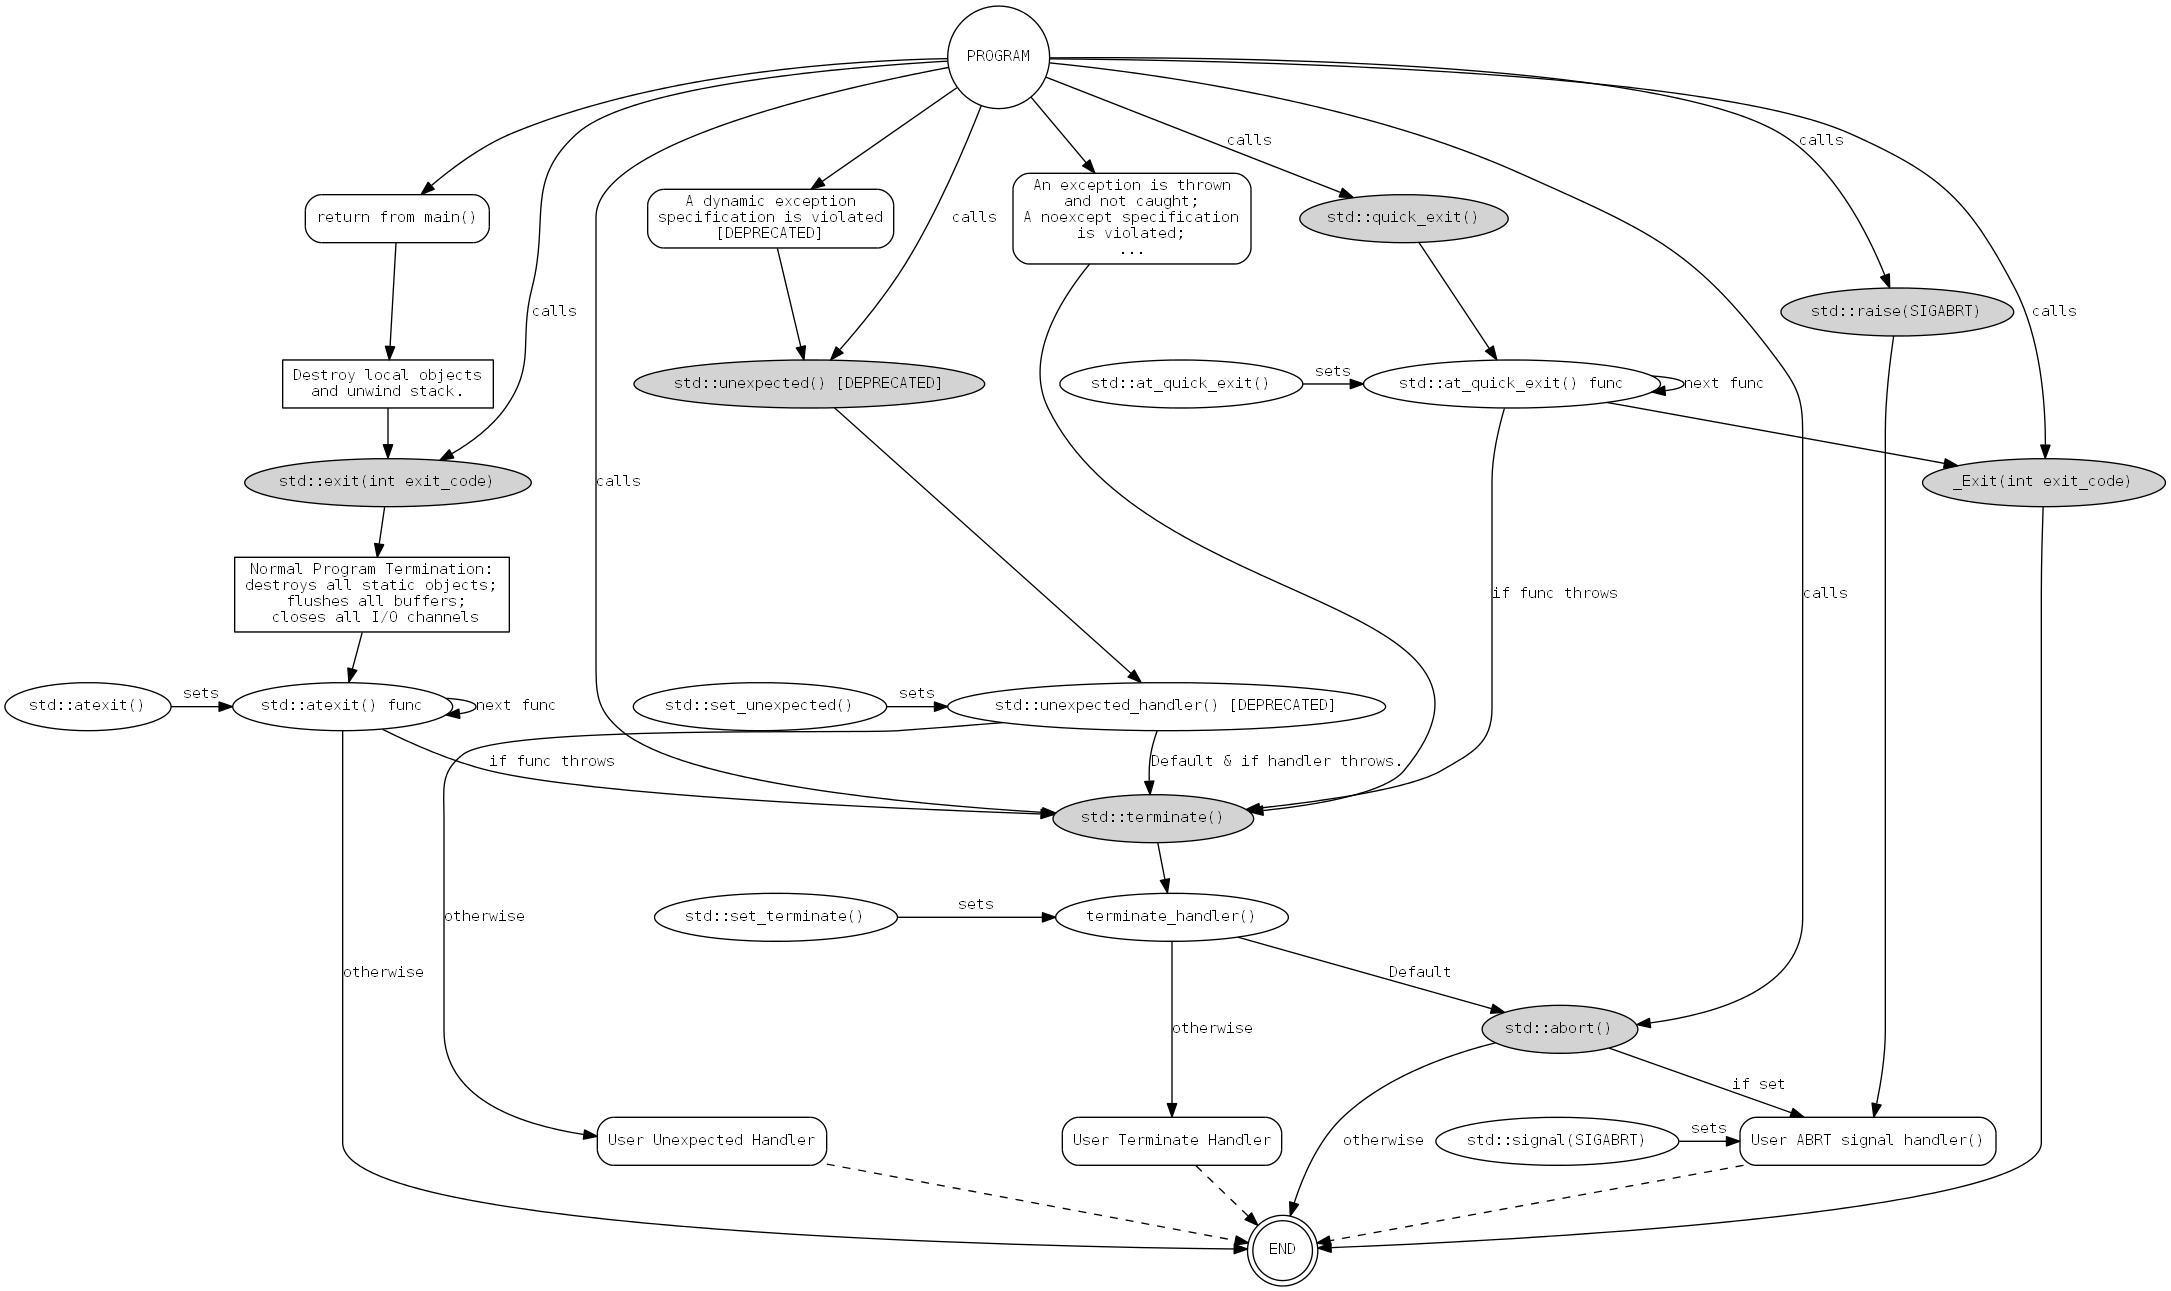
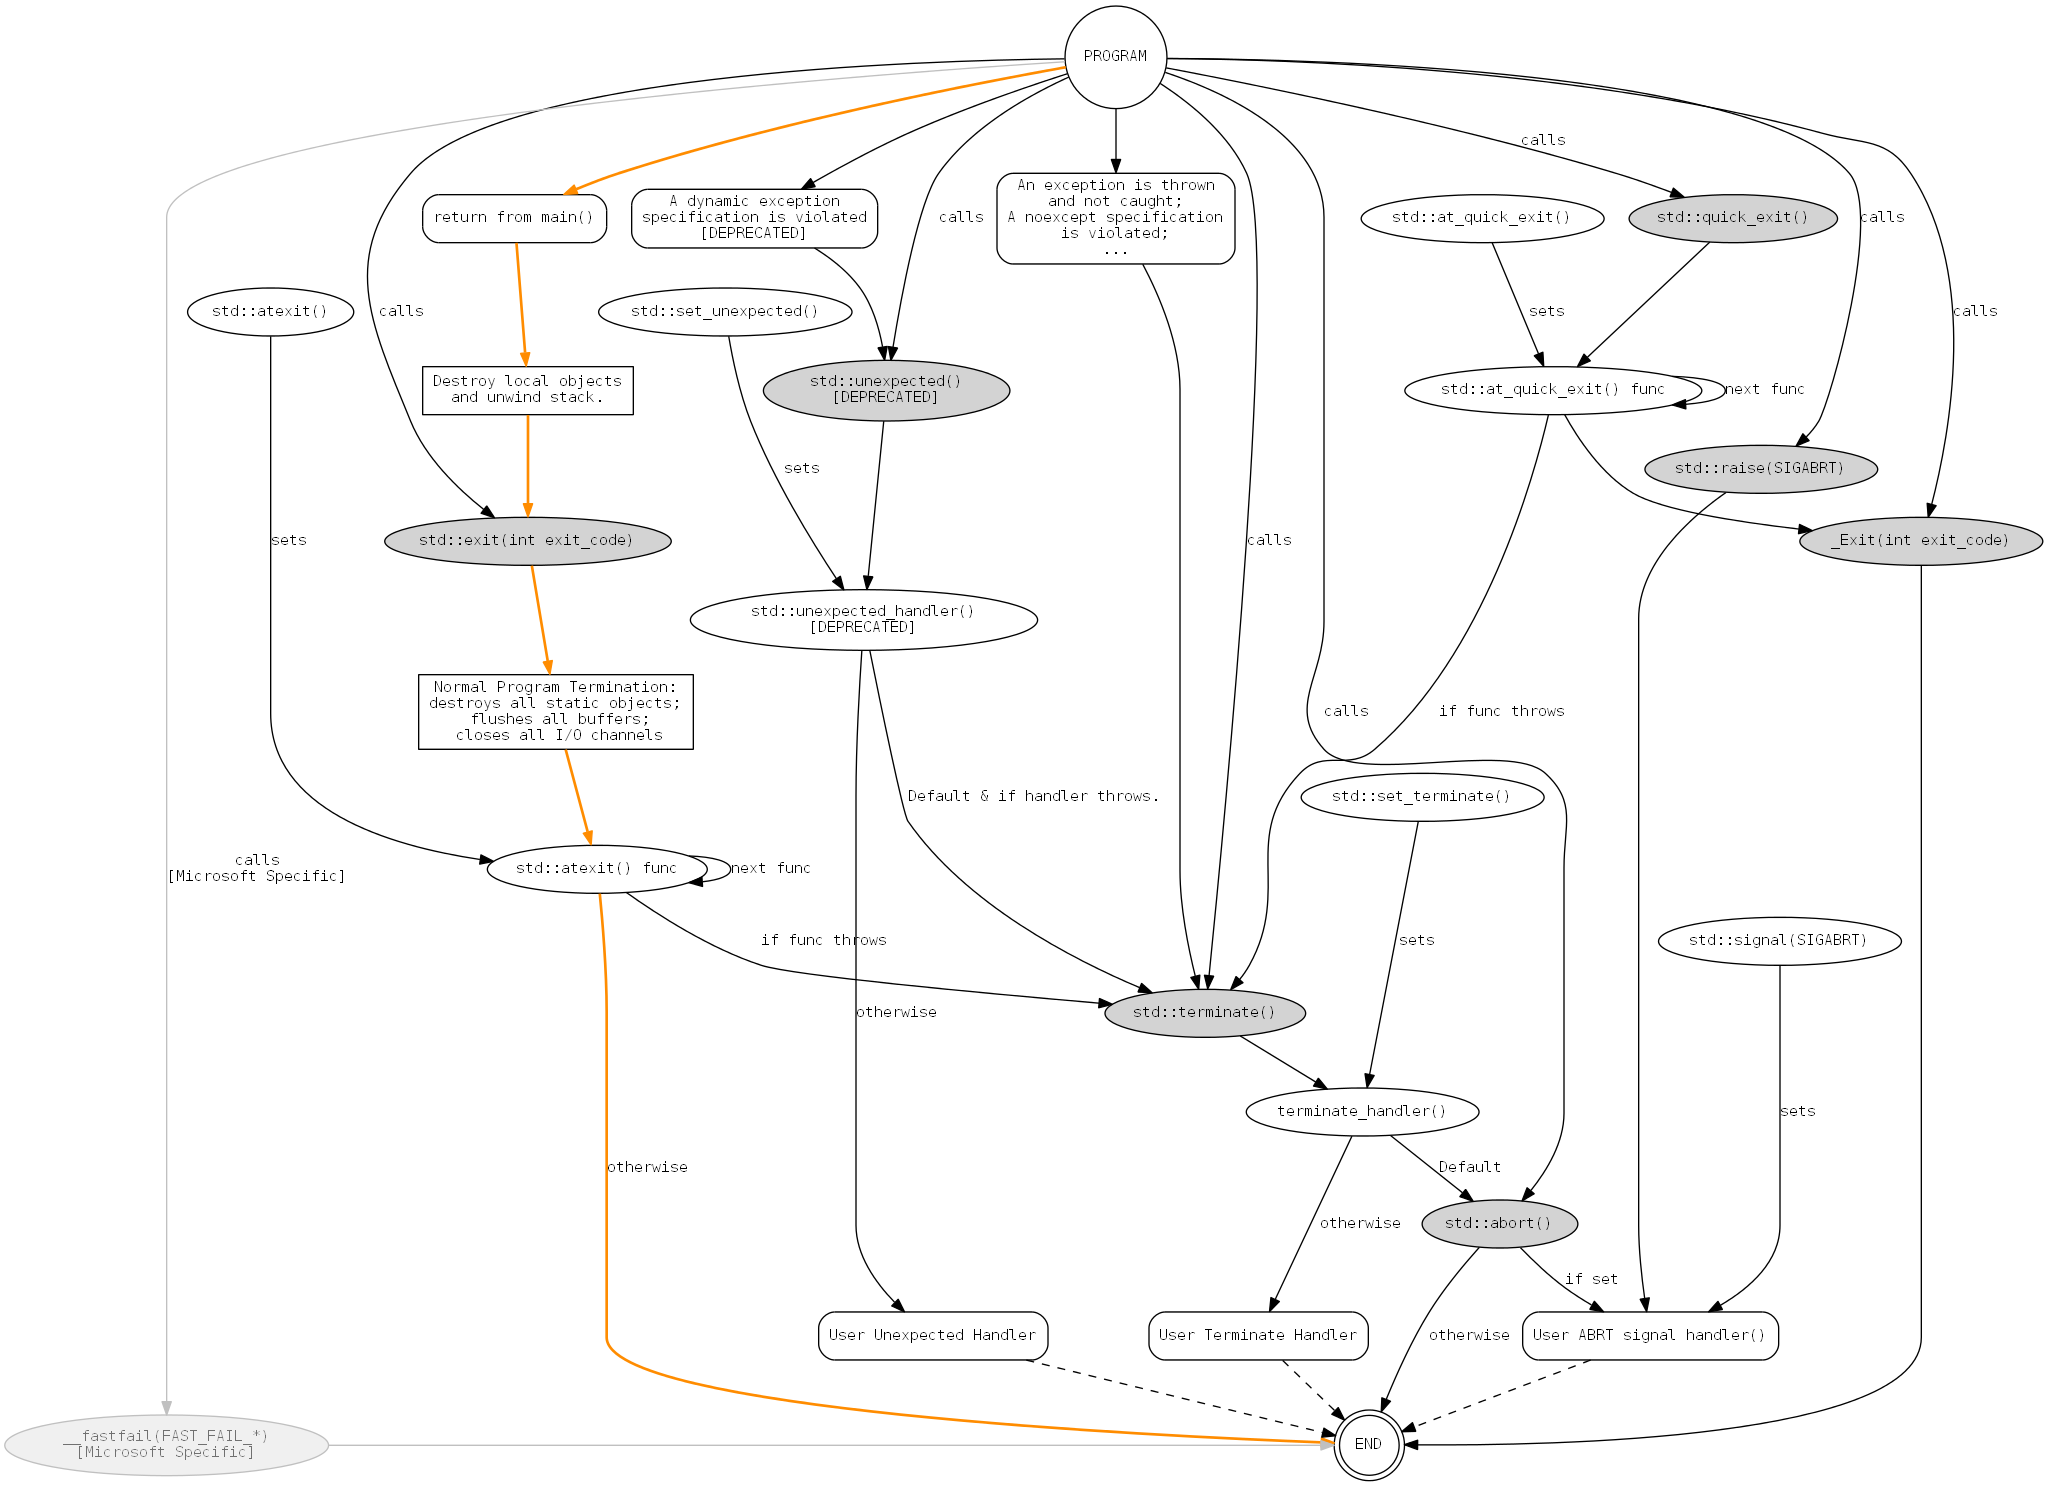
Diagram updates: - Show normal program termination path (orange) - Added Microsoft specific __fastfail().

diff --git a/README.md b/README.md
@@ -6,7 +6,7 @@ A GraphViz diagram that shows both normal and unexpected program termination flo
 There are multiple ways a C++ program may terminate. These include both normal and unexpected termination.  
 This GraphViz diagram shows the program termination flows as defined by the standard. 
 
-C++ program terminators include:
+Standard C++ program terminators include:
 * [`std::exit()`](http://en.cppreference.com/w/cpp/utility/program/exit)
 * [`std::quick_exit()`](http://en.cppreference.com/w/cpp/utility/program/quick_exit)
 * [`std::_Exit()`](http://en.cppreference.com/w/cpp/utility/program/_Exit)
@@ -14,11 +14,14 @@ C++ program terminators include:
 * [`std::terminate()`](http://en.cppreference.com/w/cpp/error/terminate)
 * [`std::unexpected()`](http://en.cppreference.com/w/cpp/error/unexpected)(deprecated)
 
-The graph is somewhat incomplete as there some subtle contexts and conditions that are not explicitly stated, and there is no explicit distinction between
-the C and C++ versions of some of the functions (e.g. `exit()`).  
-It does attempt to show the important functions and calls.
+For completeness, Microsoft specific terminators:
+* [`__fastfail()`](https://msdn.microsoft.com/en-us/library/dn774154.aspx)
+
+
+Most of the functions have subtle contexts, conditions and effects that should be considered by checking their documentation.  
+The diagram does not make an explicit distinction between the C and C++ versions of some of the functions (e.g. `exit()`).  
+The orange path shows normal program termination.
 
 ![The call graph](termination_graph.png)
-
 
 Corrections, additions, updates and layout improvements will be gladly accepted.
